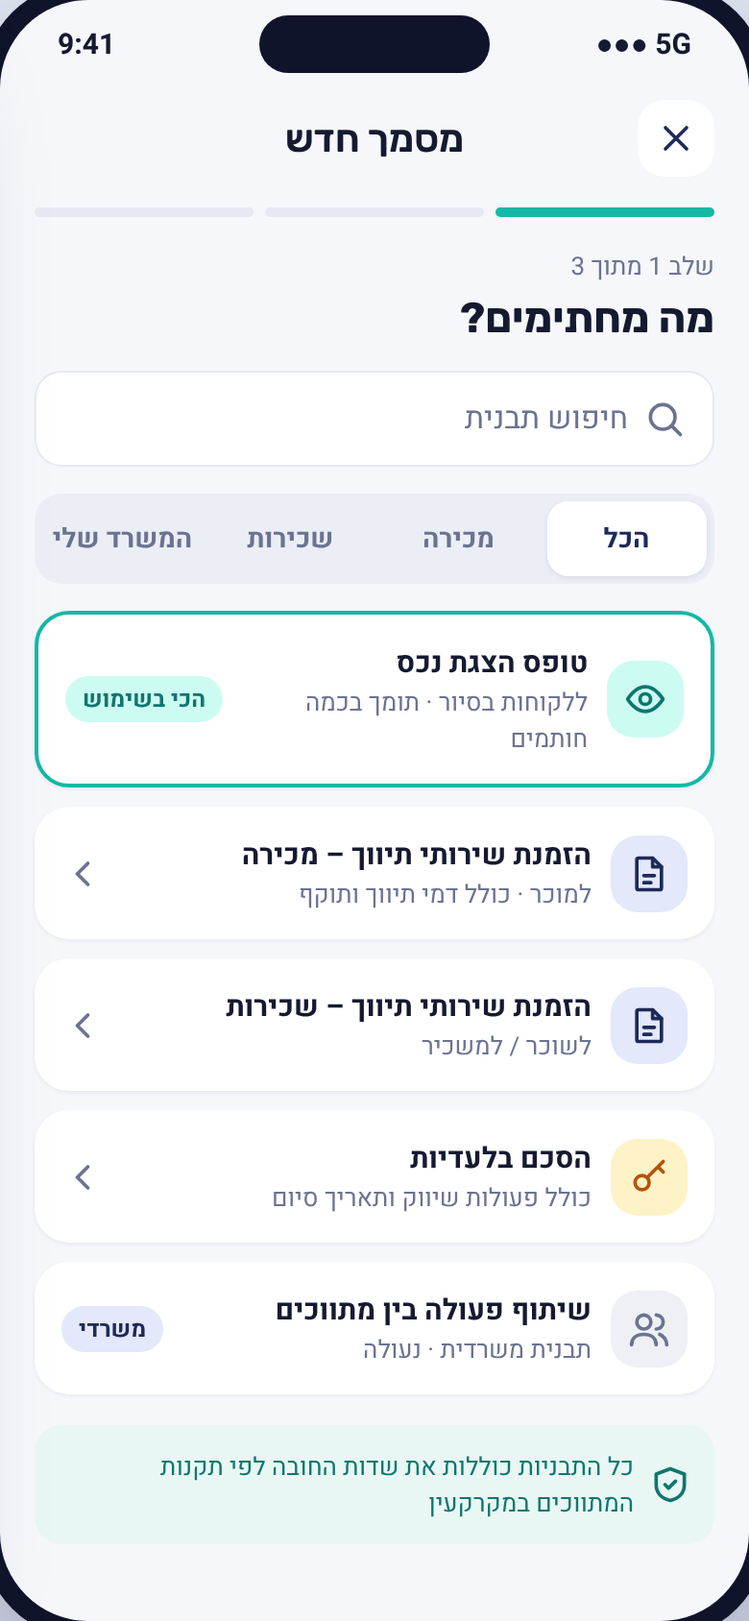
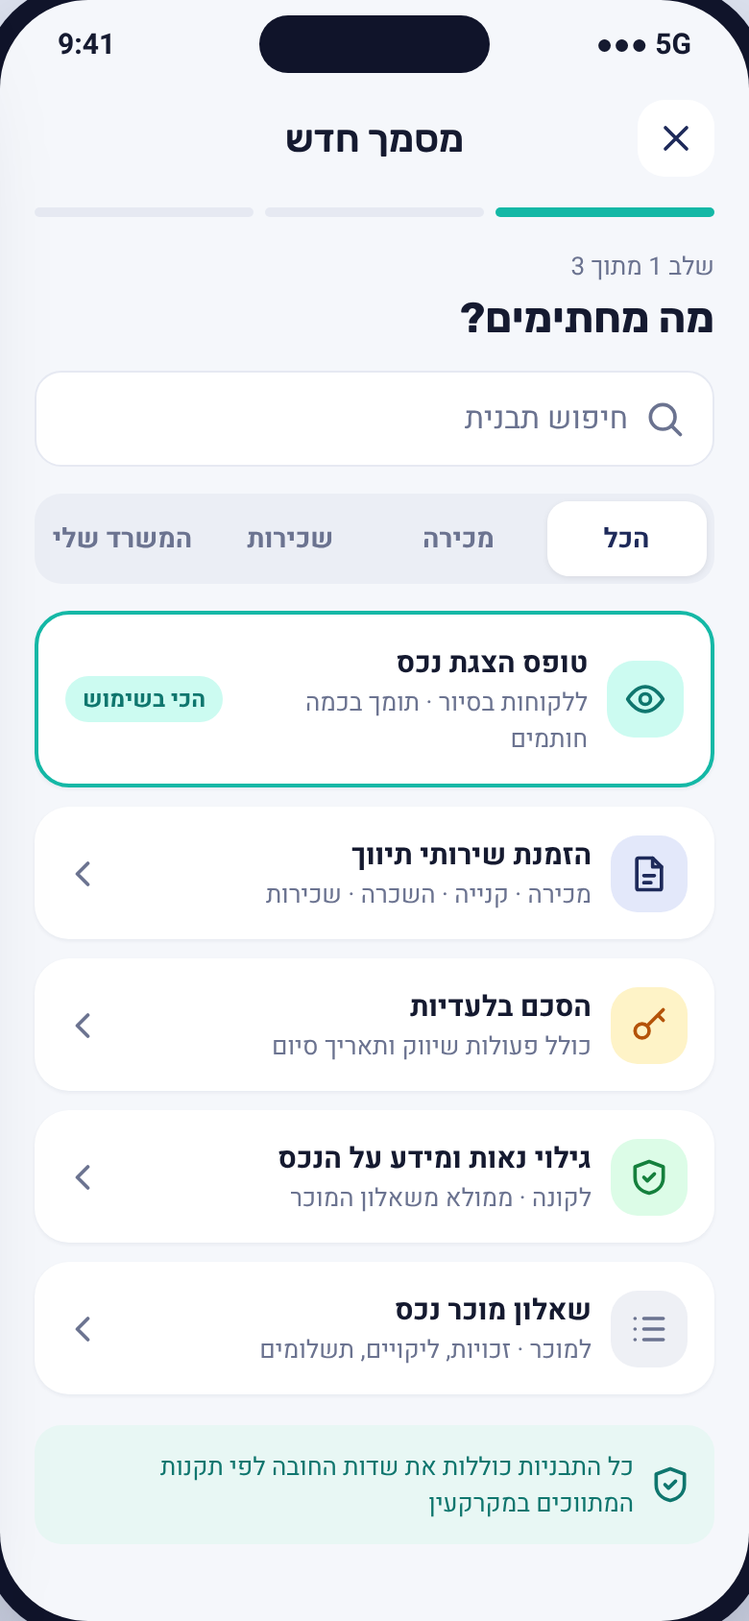
Add document templates and signed-copy / PDF save flow
Draft templates (brokerage order, exclusivity, disclosure, seller
questionnaire) with field placeholders and legal sources; spec section
for sending signed copies and saving PDFs; new share-sheet mockup.

Claude-Session: https://claude.ai/code/session_01U1SeR6NZ2Ur7a4idD67urs

diff --git a/docs/broker-app/mockups/mockups.html b/docs/broker-app/mockups/mockups.html
@@ -81,10 +81,10 @@ svg.i{width:22px;height:22px;fill:none;stroke:currentColor;stroke-width:2;stroke
  <div class="seg" style="margin-bottom:14px"><div class="on">הכל</div><div>מכירה</div><div>שכירות</div><div>המשרד שלי</div></div>
  <div class="card row" style="border:2px solid var(--teal);margin-bottom:10px"><div class="av c-teal"><svg class="i" data-i="eye"></svg></div><div style="flex:1"><div class="t">טופס הצגת נכס</div><div class="s">ללקוחות בסיור · תומך בכמה חותמים</div></div><span class="chip c-teal">הכי בשימוש</span></div>
  <div class="list">
-  <div class="card row"><div class="av c-navy"><svg class="i" data-i="file"></svg></div><div style="flex:1"><div class="t">הזמנת שירותי תיווך – מכירה</div><div class="s">למוכר · כולל דמי תיווך ותוקף</div></div><svg class="i" data-i="chev" style="color:var(--mute)"></svg></div>
-  <div class="card row"><div class="av c-navy"><svg class="i" data-i="file"></svg></div><div style="flex:1"><div class="t">הזמנת שירותי תיווך – שכירות</div><div class="s">לשוכר / למשכיר</div></div><svg class="i" data-i="chev" style="color:var(--mute)"></svg></div>
+  <div class="card row"><div class="av c-navy"><svg class="i" data-i="file"></svg></div><div style="flex:1"><div class="t">הזמנת שירותי תיווך</div><div class="s">מכירה · קנייה · השכרה · שכירות</div></div><svg class="i" data-i="chev" style="color:var(--mute)"></svg></div>
   <div class="card row"><div class="av c-amber"><svg class="i" data-i="key"></svg></div><div style="flex:1"><div class="t">הסכם בלעדיות</div><div class="s">כולל פעולות שיווק ותאריך סיום</div></div><svg class="i" data-i="chev" style="color:var(--mute)"></svg></div>
-  <div class="card row"><div class="av c-gray"><svg class="i" data-i="users"></svg></div><div style="flex:1"><div class="t">שיתוף פעולה בין מתווכים</div><div class="s">תבנית משרדית · נעולה</div></div><span class="chip c-navy">משרדי</span></div>
+  <div class="card row"><div class="av c-green"><svg class="i" data-i="shield"></svg></div><div style="flex:1"><div class="t">גילוי נאות ומידע על הנכס</div><div class="s">לקונה · ממולא משאלון המוכר</div></div><svg class="i" data-i="chev" style="color:var(--mute)"></svg></div>
+  <div class="card row"><div class="av c-gray"><svg class="i" data-i="list"></svg></div><div style="flex:1"><div class="t">שאלון מוכר נכס</div><div class="s">למוכר · זכויות, ליקויים, תשלומים</div></div><svg class="i" data-i="chev" style="color:var(--mute)"></svg></div>
  </div>
  <div class="row" style="margin-top:16px;background:#E8F7F4;border-radius:14px;padding:12px;color:#0F766E;font-size:13px;gap:8px"><svg class="i" data-i="shield"></svg><span>כל התבניות כוללות את שדות החובה לפי תקנות המתווכים במקרקעין</span></div>
 </div>
@@ -156,8 +156,8 @@ svg.i{width:22px;height:22px;fill:none;stroke:currentColor;stroke-width:2;stroke
   <div class="row between" style="padding:4px 0"><span class="s row" style="gap:6px"><svg class="i sm" data-i="pin"></svg>מיקום</span><span>ז׳בוטינסקי 112, ר״ג</span></div>
   <div class="row between" style="padding:4px 0"><span class="s row" style="gap:6px"><svg class="i sm" data-i="lock"></svg>Hash</span><span style="direction:ltr;font-family:monospace;font-size:12px">a3f9…7c21</span></div>
  </div>
- <div class="row" style="gap:8px;margin-top:16px"><div class="btn bo" style="flex:1"><svg class="i" data-i="dl"></svg>PDF</div><div class="btn bn" style="flex:2"><svg class="i" data-i="uplus"></svg>פתיחת 3 לידים</div></div>
- <div class="s" style="text-align:center;margin-top:10px">עותק חתום נשלח אוטומטית לכל החותמים</div>
+ <div class="row" style="gap:8px;margin-top:16px"><div class="btn bo" style="flex:1;font-size:15px"><svg class="i" data-i="dl"></svg>שמירת PDF</div><div class="btn bp" style="flex:1;font-size:15px"><svg class="i" data-i="send"></svg>שליחת העתק</div></div>
+ <div class="row" style="justify-content:center;gap:6px;margin-top:10px;font-size:13px;color:var(--green)"><svg class="i sm" data-i="check"></svg>העתק חתום נשלח אוטומטית ל-3 החותמים</div>
 </div>
 </div><div class="cap">5 · נחתם + תיעוד<small>מעקב לכל חותם, Audit Trail, לידים אוטומטיים</small></div></div>
 
@@ -265,8 +265,43 @@ svg.i{width:22px;height:22px;fill:none;stroke:currentColor;stroke-width:2;stroke
 <div class="tab"><div><svg class="i" data-i="home"></svg>בית</div><div><svg class="i" data-i="users"></svg>לקוחות</div><div class="fab"><svg class="i" data-i="plus"></svg></div><div><svg class="i" data-i="bld"></svg>נכסים</div><div class="on"><svg class="i" data-i="menu"></svg>עוד</div></div>
 </div><div class="cap">9 · דשבורד מנהל משרד<small>ביצועי צוות, חתימות ועמלות</small></div></div>
 
+<!-- 10 SHARE SHEET -->
+<div class="wrap"><div class="phone"><div class="sb"><span>9:41</span><span class="n"></span><span>●●● 5G</span></div>
+<div class="body" style="filter:blur(1.5px);opacity:.55">
+ <div class="hdr"><div class="ib"><svg class="i" data-i="back"></svg></div><h2>סטטוס מסמך</h2><div class="ib"><svg class="i" data-i="dots"></svg></div></div>
+ <div style="text-align:center;margin:6px 0 18px"><div style="width:84px;height:84px;border-radius:50%;background:#DCFCE7;margin:0 auto 12px"></div><h2 style="font-size:24px">נחתם על ידי כולם</h2></div>
+ <div class="card" style="height:160px"></div>
+</div>
+<div style="position:absolute;inset:0;background:rgba(16,20,42,.35)"></div>
+<div style="position:absolute;left:0;right:0;bottom:0;background:#fff;border-radius:28px 28px 0 0;padding:10px 18px 30px;box-shadow:0 -10px 30px rgba(0,0,0,.15)">
+ <div style="width:40px;height:5px;border-radius:5px;background:#D5DAE6;margin:0 auto 14px"></div>
+ <div class="row" style="gap:12px;margin-bottom:14px"><div style="width:48px;height:60px;border-radius:8px;background:#FEE2E2;color:#B91C1C;display:flex;align-items:center;justify-content:center;font-family:Rubik;font-weight:700;font-size:13px;flex:none">PDF</div><div style="flex:1;min-width:0"><div class="t">טופס הצגת נכס – ז׳בוטינסקי 112</div><div class="s">3 עמודים · 412KB · כולל תעודת חתימה</div></div></div>
+ <div class="lbl">שליחת העתק חתום</div>
+ <div class="card" style="padding:4px 14px;box-shadow:none;border:1.5px solid var(--line)">
+  <div class="row" style="padding:9px 0"><div style="width:22px;height:22px;border-radius:7px;background:var(--teal);color:#fff;display:flex;align-items:center;justify-content:center"><svg class="i sm" data-i="check" style="stroke-width:3"></svg></div><div style="flex:1"><div class="t">כל החותמים (3)</div><div class="s">שירה, יוסי, רונית</div></div><span class="chip c-green">נשלח 11:21</span></div>
+  <div class="divider" style="margin:0"></div>
+  <div class="row" style="padding:9px 0"><div style="width:22px;height:22px;border-radius:7px;background:var(--teal);color:#fff;display:flex;align-items:center;justify-content:center"><svg class="i sm" data-i="check" style="stroke-width:3"></svg></div><div style="flex:1"><div class="t">משה פרץ · בעל הנכס</div><div class="s">מהכרטיס של הנכס</div></div></div>
+  <div class="divider" style="margin:0"></div>
+  <div class="row" style="padding:9px 0;color:var(--teal-d)"><svg class="i" data-i="uplus"></svg><div class="t">נמען אחר (עו״ד, בן/בת זוג…)</div></div>
+ </div>
+ <div class="row" style="gap:8px;margin:12px 0">
+  <div style="flex:1;text-align:center"><div class="av" style="margin:0 auto 4px;width:52px;height:52px;border-radius:16px;background:#25D366;color:#fff"><svg class="i" data-i="msg"></svg></div><div style="font-size:12px;font-weight:600">WhatsApp</div></div>
+  <div style="flex:1;text-align:center"><div class="av c-navy" style="margin:0 auto 4px;width:52px;height:52px;border-radius:16px"><svg class="i" data-i="mail"></svg></div><div style="font-size:12px;font-weight:600">מייל</div></div>
+  <div style="flex:1;text-align:center"><div class="av c-amber" style="margin:0 auto 4px;width:52px;height:52px;border-radius:16px"><svg class="i" data-i="sms"></svg></div><div style="font-size:12px;font-weight:600">SMS</div></div>
+  <div style="flex:1;text-align:center"><div class="av c-gray" style="margin:0 auto 4px;width:52px;height:52px;border-radius:16px"><svg class="i" data-i="link"></svg></div><div style="font-size:12px;font-weight:600">העתקת קישור</div></div>
+ </div>
+ <div class="lbl">שמירת PDF</div>
+ <div class="row" style="gap:8px">
+  <div class="btn bo" style="flex:1;height:46px;font-size:14px"><svg class="i sm" data-i="dl"></svg>לטלפון</div>
+  <div class="btn bo" style="flex:1;height:46px;font-size:14px"><svg class="i sm" data-i="cloud"></svg>Google Drive</div>
+  <div class="btn bo" style="flex:1;height:46px;font-size:14px"><svg class="i sm" data-i="share"></svg>שיתוף…</div>
+ </div>
+ <div class="row" style="margin-top:12px;gap:8px;font-size:12.5px;color:var(--mute)"><svg class="i sm" data-i="lock"></svg>קישור מאובטח, בתוקף 30 יום · נשמר בארכיון 7 שנים</div>
+</div>
+</div><div class="cap">10 · שליחת העתק ושמירת PDF<small>לכל החותמים, לבעל הנכס או לכל נמען, ושמירה לטלפון/ענן</small></div></div>
+
 <script>
-const P={home:'<path d="M3 10l9-7 9 7v10a1 1 0 0 1-1 1h-5v-6H9v6H4a1 1 0 0 1-1-1z"/>',users:'<circle cx="9" cy="8" r="4"/><path d="M2 21c0-4 3-6 7-6s7 2 7 6M16 4a4 4 0 0 1 0 8M22 21c0-3-2-5-4-6"/>',plus:'<path d="M12 5v14M5 12h14"/>',bld:'<rect x="4" y="3" width="16" height="18" rx="1"/><path d="M9 7h1M14 7h1M9 11h1M14 11h1M9 15h1M14 15h1M10 21v-3h4v3"/>',menu:'<path d="M4 6h16M4 12h16M4 18h16"/>',file:'<path d="M14 3H6a1 1 0 0 0-1 1v16a1 1 0 0 0 1 1h12a1 1 0 0 0 1-1V8z"/><path d="M14 3v5h5M9 13h6M9 17h4"/>',check:'<path d="M5 12l5 5 9-10"/>',clock:'<circle cx="12" cy="12" r="9"/><path d="M12 7v5l3 2"/>',eye:'<path d="M2 12s4-7 10-7 10 7 10 7-4 7-10 7S2 12 2 12z"/><circle cx="12" cy="12" r="3"/>',bell:'<path d="M6 8a6 6 0 0 1 12 0c0 7 3 9 3 9H3s3-2 3-9"/><path d="M10 21h4"/>',search:'<circle cx="11" cy="11" r="7"/><path d="M21 21l-5-5"/>',cal:'<rect x="3" y="5" width="18" height="16" rx="2"/><path d="M3 10h18M8 3v4M16 3v4"/>',phone:'<path d="M5 4h4l2 5-2.5 1.5a11 11 0 0 0 5 5L15 13l5 2v4a2 2 0 0 1-2 2A16 16 0 0 1 3 6a2 2 0 0 1 2-2"/>',msg:'<path d="M21 12a9 9 0 0 1-13.5 7.8L3 21l1.2-4.5A9 9 0 1 1 21 12z"/>',chev:'<path d="M15 6l-6 6 6 6"/>',back:'<path d="M9 6l6 6-6 6"/>',pen:'<path d="M12 20h9"/><path d="M16.5 3.5a2.1 2.1 0 0 1 3 3L7 19l-4 1 1-4z"/>',shield:'<path d="M12 3l8 3v6c0 5-3.5 8-8 9-4.5-1-8-4-8-9V6z"/><path d="M9 12l2 2 4-4"/>',pin:'<path d="M12 21s7-6 7-12a7 7 0 0 0-14 0c0 6 7 12 7 12z"/><circle cx="12" cy="9" r="2.5"/>',send:'<path d="M22 2L11 13M22 2l-7 20-4-9-9-4z"/>',uplus:'<circle cx="9" cy="8" r="4"/><path d="M2 21c0-4 3-6 7-6s7 2 7 6M19 8v6M16 11h6"/>',key:'<circle cx="8" cy="15" r="4"/><path d="M11 12l9-9M17 6l3 3"/>',phone2:'<rect x="7" y="2" width="10" height="20" rx="2"/><path d="M11 18h2"/>',idc:'<rect x="3" y="5" width="18" height="14" rx="2"/><circle cx="9" cy="11" r="2"/><path d="M6 16c.5-1.5 1.7-2 3-2s2.5.5 3 2M14 10h4M14 13h3"/>',lock:'<rect x="5" y="11" width="14" height="10" rx="2"/><path d="M8 11V7a4 4 0 0 1 8 0v4"/>',dl:'<path d="M12 3v12M7 10l5 5 5-5M5 21h14"/>',x:'<path d="M6 6l12 12M18 6L6 18"/>',dots:'<circle cx="12" cy="5" r="1"/><circle cx="12" cy="12" r="1"/><circle cx="12" cy="19" r="1"/>',filter:'<path d="M3 5h18l-7 8v6l-4 2v-8z"/>'};
+const P={home:'<path d="M3 10l9-7 9 7v10a1 1 0 0 1-1 1h-5v-6H9v6H4a1 1 0 0 1-1-1z"/>',users:'<circle cx="9" cy="8" r="4"/><path d="M2 21c0-4 3-6 7-6s7 2 7 6M16 4a4 4 0 0 1 0 8M22 21c0-3-2-5-4-6"/>',plus:'<path d="M12 5v14M5 12h14"/>',bld:'<rect x="4" y="3" width="16" height="18" rx="1"/><path d="M9 7h1M14 7h1M9 11h1M14 11h1M9 15h1M14 15h1M10 21v-3h4v3"/>',menu:'<path d="M4 6h16M4 12h16M4 18h16"/>',file:'<path d="M14 3H6a1 1 0 0 0-1 1v16a1 1 0 0 0 1 1h12a1 1 0 0 0 1-1V8z"/><path d="M14 3v5h5M9 13h6M9 17h4"/>',check:'<path d="M5 12l5 5 9-10"/>',clock:'<circle cx="12" cy="12" r="9"/><path d="M12 7v5l3 2"/>',eye:'<path d="M2 12s4-7 10-7 10 7 10 7-4 7-10 7S2 12 2 12z"/><circle cx="12" cy="12" r="3"/>',bell:'<path d="M6 8a6 6 0 0 1 12 0c0 7 3 9 3 9H3s3-2 3-9"/><path d="M10 21h4"/>',search:'<circle cx="11" cy="11" r="7"/><path d="M21 21l-5-5"/>',cal:'<rect x="3" y="5" width="18" height="16" rx="2"/><path d="M3 10h18M8 3v4M16 3v4"/>',phone:'<path d="M5 4h4l2 5-2.5 1.5a11 11 0 0 0 5 5L15 13l5 2v4a2 2 0 0 1-2 2A16 16 0 0 1 3 6a2 2 0 0 1 2-2"/>',msg:'<path d="M21 12a9 9 0 0 1-13.5 7.8L3 21l1.2-4.5A9 9 0 1 1 21 12z"/>',chev:'<path d="M15 6l-6 6 6 6"/>',back:'<path d="M9 6l6 6-6 6"/>',pen:'<path d="M12 20h9"/><path d="M16.5 3.5a2.1 2.1 0 0 1 3 3L7 19l-4 1 1-4z"/>',shield:'<path d="M12 3l8 3v6c0 5-3.5 8-8 9-4.5-1-8-4-8-9V6z"/><path d="M9 12l2 2 4-4"/>',pin:'<path d="M12 21s7-6 7-12a7 7 0 0 0-14 0c0 6 7 12 7 12z"/><circle cx="12" cy="9" r="2.5"/>',send:'<path d="M22 2L11 13M22 2l-7 20-4-9-9-4z"/>',uplus:'<circle cx="9" cy="8" r="4"/><path d="M2 21c0-4 3-6 7-6s7 2 7 6M19 8v6M16 11h6"/>',key:'<circle cx="8" cy="15" r="4"/><path d="M11 12l9-9M17 6l3 3"/>',phone2:'<rect x="7" y="2" width="10" height="20" rx="2"/><path d="M11 18h2"/>',idc:'<rect x="3" y="5" width="18" height="14" rx="2"/><circle cx="9" cy="11" r="2"/><path d="M6 16c.5-1.5 1.7-2 3-2s2.5.5 3 2M14 10h4M14 13h3"/>',lock:'<rect x="5" y="11" width="14" height="10" rx="2"/><path d="M8 11V7a4 4 0 0 1 8 0v4"/>',dl:'<path d="M12 3v12M7 10l5 5 5-5M5 21h14"/>',x:'<path d="M6 6l12 12M18 6L6 18"/>',dots:'<circle cx="12" cy="5" r="1"/><circle cx="12" cy="12" r="1"/><circle cx="12" cy="19" r="1"/>',list:'<path d="M9 6h11M9 12h11M9 18h11M4 6h.01M4 12h.01M4 18h.01"/>',mail:'<rect x="3" y="5" width="18" height="14" rx="2"/><path d="M3 7l9 6 9-6"/>',sms:'<path d="M4 4h16a1 1 0 0 1 1 1v11a1 1 0 0 1-1 1H9l-5 4V5a1 1 0 0 1 1-1z"/><path d="M8 10h8M8 13h5"/>',link:'<path d="M10 14a4 4 0 0 0 6 0l3-3a4 4 0 0 0-6-6l-1 1"/><path d="M14 10a4 4 0 0 0-6 0l-3 3a4 4 0 0 0 6 6l1-1"/>',cloud:'<path d="M7 18a5 5 0 0 1-.5-10A6 6 0 0 1 18 9a4.5 4.5 0 0 1-.5 9z"/>',share:'<circle cx="18" cy="5" r="3"/><circle cx="6" cy="12" r="3"/><circle cx="18" cy="19" r="3"/><path d="M8.6 10.5l6.8-4M8.6 13.5l6.8 4"/>',filter:'<path d="M3 5h18l-7 8v6l-4 2v-8z"/>'};
 document.querySelectorAll('svg[data-i]').forEach(s=>{if(!s.getAttribute('viewBox'))s.setAttribute('viewBox','0 0 24 24');s.innerHTML=P[s.dataset.i]||''});
 </script>
 </body></html>

diff --git a/docs/broker-app/templates/README.md b/docs/broker-app/templates/README.md
@@ -1,0 +1,35 @@
+# תבניות מסמכים לאפליקציה
+
+> ⚠ **טיוטות לעבודה – לא ייעוץ משפטי.** התבניות נכתבו מחדש (לא הועתקו מטופס קיים) על בסיס הדרישות שבחוק המתווכים במקרקעין, התשנ״ו-1996 ובתקנות שמכוחו, כפי שהן מתוארות במקורות שבסוף הקובץ. **חובה שעו״ד יעבור על כל תבנית לפני שימוש עם לקוחות**, בייחוד בגלל תקנות האתיקה החדשות (התשפ״ד-2024).
+
+| # | תבנית | מי חותם | מתי | קובץ |
+|---|---|---|---|---|
+| 1 | הזמנת שירותי תיווך (מכירה / קנייה / השכרה / שכירות) | הלקוח | לפני שמוסרים פרטי נכס / מציגים | [01-brokerage-order.md](01-brokerage-order.md) |
+| 2 | הסכם בלעדיות | בעל הנכס | עם קבלת הנכס לשיווק – **מסמך נפרד** | [02-exclusivity.md](02-exclusivity.md) |
+| 3 | גילוי נאות ומידע על הנכס | הקונה / השוכר (אישור קבלה) | לפני הסיור / לפני מו״מ | [03-disclosure.md](03-disclosure.md) |
+| 4 | שאלון מוכר / משכיר נכס | בעל הנכס | עם קבלת הנכס – הבסיס לטופס 3 | [04-seller-questionnaire.md](04-seller-questionnaire.md) |
+
+## איך זה עובד באפליקציה
+- כל `{{שדה}}` ממולא אוטומטית מכרטיס המתווך / הלקוח / הנכס. שדות שמסומנים `*` הם חובה – אי אפשר לשלוח בלי למלא אותם.
+- `[ ]` = תיבת סימון שהחותם מסמן. `[[חתימה]]` = מקום חתימה.
+- **שאלון המוכר (4) מזין את טופס הגילוי (3):** התשובות של המוכר עוברות אוטומטית לטופס שהקונה מקבל, כך שהמתווך מתעד שהעביר את המידע.
+- אחרי חתימה: נוצר PDF עם עמוד "תעודת חתימה" (שעה, טלפון מאומת, מיקום, קוד אימות של הקובץ). העתק נשלח אוטומטית לכל החותמים ונשמר בכרטיסים.
+
+## מה החוק דורש (לפי המקורות – לאמת מול הנוסח הרשמי)
+1. **הזמנה בכתב (סעיף 9 לחוק + תקנות פרטי הזמנה בכתב, 1997):** מתווך זכאי לדמי תיווך רק אם יש לו רישיון, הלקוח חתם על הזמנה בכתב עם הפרטים הנדרשים, והמתווך היה "הגורם היעיל". פרטי החובה כוללים זיהוי המתווך (כולל מס׳ רישיון) והלקוח, סוג העסקה, תיאור הנכס, מחיר משוער, דמי התיווך והאם הם כוללים מע״מ.
+2. **בלעדיות:** חייבת להיות מאושרת בחתימת הלקוח **על מסמך נפרד**. בדירה – עד 6 חודשים. המתווך חייב לבצע לפחות 2 מתוך 6 פעולות שיווק שבתקנות (פעולות שיווק, 2004). אם לא ביצע אותן עד תום שליש מהתקופה – הבלעדיות מסתיימת.
+3. **תקנות אתיקה וחובות מקצועיות (2024):** להסביר ללקוח בשפה פשוטה את הטופס לפני חתימה; למסור לקונה/שוכר מידע מהתוספת לתקנות (בין היתר רטיבות, חריגות בנייה, ליקויים מהותיים בתשתיות) ולתעד אם בעל הנכס סירב למסור מידע; לגלות בכתב תשלום/טובת הנאה מגורם שאינו צד לעסקה; ייצוג שני הצדדים רק בהסכמה בכתב של שניהם; לא למנוע קשר ישיר בין הצדדים; חובות מסירה ושמירה של מסמכים.
+4. **גילוי עניין אישי (סעיף 10 לחוק):** מתווך שיש לו עניין אישי בנכס או בעסקה חייב לגלות זאת ללקוח.
+
+## מקורות
+- [תקנות פרטי הזמנה בכתב – טולדנו](https://www.toledano.co.il/%D7%AA%D7%A7%D7%A0%D7%95%D7%AA-%D7%94%D7%9E%D7%AA%D7%95%D7%95%D7%9B%D7%99%D7%9D-%D7%91%D7%9E%D7%A7%D7%A8%D7%A7%D7%A2%D7%99%D7%9F-%D7%A4%D7%A8%D7%98%D7%99-%D7%94%D7%96%D7%9E%D7%A0%D7%94-%D7%91%D7%9B/%D7%AA%D7%99%D7%95%D7%95%D7%9A-%D7%97%D7%95%D7%A7-%D7%94%D7%9E%D7%AA%D7%95%D7%95%D7%9B%D7%99%D7%9D/)
+- [חוק המתווכים במקרקעין – נבו](https://www.nevo.co.il/law_html/law00/72991.htm)
+- [תקנות אתיקה וחובות מקצועיות, 2024 – נבו](https://www.nevo.co.il/law_html/law00/229640.htm)
+- [תקנות אתיקה – ויקיטקסט](https://he.wikisource.org/wiki/%D7%AA%D7%A7%D7%A0%D7%95%D7%AA_%D7%94%D7%9E%D7%AA%D7%95%D7%95%D7%9B%D7%99%D7%9D_%D7%91%D7%9E%D7%A7%D7%A8%D7%A7%D7%A2%D7%99%D7%9F_(%D7%90%D7%AA%D7%99%D7%A7%D7%94_%D7%95%D7%97%D7%95%D7%91%D7%95%D7%AA_%D7%9E%D7%A7%D7%A6%D7%95%D7%A2%D7%99%D7%95%D7%AA))
+- [תקנות פעולות שיווק – ויקיטקסט](https://he.wikisource.org/wiki/%D7%AA%D7%A7%D7%A0%D7%95%D7%AA_%D7%94%D7%9E%D7%AA%D7%95%D7%95%D7%9B%D7%99%D7%9D_%D7%91%D7%9E%D7%A7%D7%A8%D7%A7%D7%A2%D7%99%D7%9F_(%D7%A4%D7%A2%D7%95%D7%9C%D7%95%D7%AA_%D7%A9%D7%99%D7%95%D7%95%D7%A7))
+- [בלעדיות: לפחות שתי פעולות שיווק – גלובס](https://www.globes.co.il/news/article.aspx?did=866813)
+- [תיקון 4 לחוק (2004) – הכנסת](https://fs.knesset.gov.il/16/law/16_lsr_299856.pdf)
+- [הכנסת אישרה את תקנות האתיקה – וואלה](https://nadlan.walla.co.il/item/3681234)
+- [התקנות החדשות למתווכים – אטיאס ושות׳](https://alaw.co.il/%D7%94%D7%AA%D7%A7%D7%A0%D7%95%D7%AA-%D7%94%D7%97%D7%93%D7%A9%D7%95%D7%AA-%D7%9C%D7%9E%D7%AA%D7%95%D7%95%D7%9B%D7%99%D7%9D-%D7%91%D7%9E%D7%A7%D7%A8%D7%A7%D7%A2%D7%99%D7%9F/)
+- [זכותון ללקוחות של מתווכים – כל זכות](https://www.kolzchut.org.il/he/%D7%96%D7%9B%D7%95%D7%AA%D7%95%D7%9F_%D7%9C%D7%9C%D7%A7%D7%95%D7%97%D7%95%D7%AA_%D7%A9%D7%9C_%D7%9E%D7%AA%D7%95%D7%95%D7%9B%D7%99_%D7%93%D7%99%D7%A8%D7%95%D7%AA_%D7%95%D7%9E%D7%A7%D7%A8%D7%A7%D7%A2%D7%99%D7%9F)
+- [חומר לימוד דיני מתווכים – gov.il](https://www.gov.il/BlobFolder/generalpage/studymaterial/he/part1.pdf)

diff --git a/docs/broker-app/templates/04-seller-questionnaire.md b/docs/broker-app/templates/04-seller-questionnaire.md
@@ -1,0 +1,70 @@
+# שאלון מוכר / משכיר נכס
+**ממולא על ידי בעל הנכס עם מסירת הנכס לשיווק. התשובות מזינות את טופס הגילוי הנאות לקונים/שוכרים.**
+
+> טיוטה לעבודה – לבדיקת עו״ד. באפליקציה: שאלון שלב-אחר-שלב, שאלה אחת במסך, עם אפשרות לצלם מסמכים.
+
+**תאריך:** {{תאריך}}   **מתווך:** {{מתווך.שם}}, רישיון {{מתווך.רישיון}}
+
+## 1. פרטי בעלי הנכס
+| | |
+|---|---|
+| שם/ות הבעלים כפי שרשומים | {{בעלים}} |
+| ת״ז | {{תזים}} |
+| טלפון / דוא״ל | {{טלפון}} / {{מייל}} |
+| האם כל הבעלים מסכימים למכירה/השכרה? | [ ] כן [ ] לא – פרט: |
+| מכירה באמצעות מיופה כוח / ירושה / כונס / עזבון? | [ ] לא [ ] כן – פרט (צו ירושה, ייפוי כוח): |
+
+## 2. הנכס
+- כתובת, דירה, קומה: {{כתובת}}
+- גוש / חלקה / תת-חלקה: {{גוש_חלקה}}
+- סוג: [ ] דירה [ ] דירת גן [ ] פנטהאוז [ ] בית פרטי [ ] מסחרי [ ] אחר
+- חדרים: ___  שטח (מ״ר): ___  מקור השטח: [ ] טאבו [ ] ארנונה [ ] תכנית [ ] לא ידוע
+- מרפסת ___ מ״ר · חניה: [ ] רשומה [ ] לא רשומה ___ · מחסן: [ ] רשום [ ] לא רשום · מעלית [ ] · ממ״ד [ ]
+- שנת בנייה: ___  קומות בבניין: ___
+
+## 3. רישום וזכויות
+- הנכס רשום ב: [ ] טאבו (לשכת רישום מקרקעין) [ ] רשות מקרקעי ישראל [ ] חברה משכנת: ___ [ ] לא רשום
+- בית משותף רשום? [ ] כן [ ] לא [ ] לא יודע/ת
+- משכנתא: [ ] אין [ ] יש – בנק ___ יתרה משוערת ₪___
+- עיקולים / שעבודים / הערות אזהרה לטובת אחרים: [ ] אין [ ] יש – פרט:
+- הליכים משפטיים / תביעות הקשורים לנכס או לבניין: [ ] אין [ ] יש – פרט:
+- מצורף: [ ] נסח טאבו [ ] אישור זכויות [ ] היתר בנייה / תכנית [ ] חוזה רכישה קודם
+
+## 4. מצב פיזי (גילוי ליקויים)
+לכל שאלה: [ ] לא ידוע לי על כך [ ] כן – פרט, כולל אם תוקן ומתי.
+1. **רטיבות / נזילות / עובש** – בדירה, בתקרה, בקירות חיצוניים:
+2. **חריגות בנייה** – תוספות, סגירת מרפסות, איחוד/פיצול חדרים, שינויים ללא היתר:
+3. **צנרת מים וביוב** – סתימות חוזרות, החלפות, בעיות לחץ:
+4. **חשמל** – לוח, הארקה, תקלות:
+5. **גז** – צנרת, ספק, תקינות:
+6. **סדקים / בעיות מבנה / שקיעות:**
+7. **איטום גג / מרפסות:**
+8. **מזיקים** (טרמיטים, מכרסמים) – טיפולים בעבר:
+9. **רעש / מטרד קבוע** ידוע (עסק, תשתית, שכנים):
+10. **ליקויים בבניין / בשטחים משותפים** (מעלית, חדר מדרגות, ביוב משותף):
+11. שיפוצים שבוצעו (שנה, מה, האם עם היתר): 
+
+## 5. תכנון וסביבה
+- תמ״א 38 / פינוי-בינוי / התחדשות עירונית – קיימת הסכמה, חתימה או הליך? [ ] לא [ ] כן – פרט:
+- תכניות בנייה ידועות בסביבה / הפקעות: 
+- צווי הריסה / קנסות / דרישות עירייה: [ ] לא [ ] כן – פרט:
+
+## 6. תשלומים וחובות
+- ארנונה ₪___ לחודשיים · ועד בית ₪___ לחודש · תשלומים מיוחדים צפויים לבניין: ___
+- חובות פתוחים (ארנונה, מים, ועד, היטלים): [ ] אין [ ] יש – פרט:
+
+## 7. אכלוס ומסירה
+- מי גר בנכס היום? [ ] הבעלים [ ] שוכר – חוזה עד ___, דמי שכירות ₪___ [ ] ריק
+- מועד פינוי / מסירה אפשרי: ___
+- מה נשאר בנכס (מזגנים, מטבח, ארונות, דוד שמש, ריהוט): ___
+- מחיר מבוקש: ₪___ · גמישות / תנאים מיוחדים: ___
+
+## 8. הצהרה והסכמה
+[ ] אני מצהיר/ה שהתשובות נכונות ומלאות למיטב ידיעתי, ושאעדכן את המתווך בכל שינוי.
+[ ] ידוע לי שהמתווך חייב למסור מידע זה לקונים/שוכרים פוטנציאליים, ואני מסכים/ה שיעביר אותו.
+[ ] ידוע לי שהסתרת מידע מהותי על הנכס עלולה להטיל עליי אחריות כלפי הקונה.
+[ ] **סירוב:** אני מסרב/ת למסור מידע בנושאים: ___ (המתווך יציין זאת בטופס הגילוי).
+
+| בעל/ת הנכס | בעלים נוסף/ת | המתווך |
+|---|---|---|
+| [[חתימה]] | [[חתימה]] | [[חתימה]] |

diff --git a/docs/broker-app/templates/03-disclosure.md b/docs/broker-app/templates/03-disclosure.md
@@ -1,0 +1,50 @@
+# טופס גילוי נאות ומידע על הנכס
+**נמסר לקונה / לשוכר – לפי חובות הגילוי של המתווך (סעיף 10 לחוק ותקנות המתווכים במקרקעין (אתיקה וחובות מקצועיות), התשפ״ד-2024)**
+
+> טיוטה לעבודה – לבדיקת עו״ד. יש להשוות את סעיף ג׳ לרשימה המלאה ב**תוספת לתקנות האתיקה** ולהשלים פריטים חסרים.
+
+**תאריך:** {{תאריך}}   **הנכס:** {{נכס.כתובת}}   **הלקוח:** {{לקוח.שם}}, ת״ז {{לקוח.תז}}
+
+## א. גילוי על המתווך
+| נושא | גילוי |
+|---|---|
+| רישיון | {{מתווך.שם}}, רישיון {{מתווך.רישיון}} – הוצג ללקוח לפי בקשתו |
+| עניין אישי בנכס/בעסקה | [ ] אין  [ ] יש: {{עניין_אישי}} |
+| את מי המתווך מייצג | [ ] את הקונה/שוכר בלבד  [ ] את המוכר/משכיר בלבד  [ ] את שני הצדדים – בהסכמת שניהם בכתב |
+| בלעדיות מבעל הנכס | [ ] לנכס יש בלעדיות אצל המתווך עד {{בלעדיות.עד}}  [ ] אין |
+| תשלום / טובת הנאה מגורם שאינו צד לעסקה (שמאי, יועץ משכנתאות, קבלן וכו׳) | [ ] אין  [ ] יש: {{תשלום_צד_ג}} |
+| הליכי כינוס / הוצאה לפועל על הנכס, ככל שידוע | [ ] לא ידוע על הליך  [ ] קיים: {{הליכים}} |
+
+## ב. מקור המידע
+המידע בסעיף ג׳ נמסר על ידי בעל הנכס ב**שאלון מוכר** מיום {{שאלון.תאריך}}, ו/או נבדק על ידי המתווך במקורות: [ ] נסח טאבו מיום {{נסח.תאריך}} [ ] אישור זכויות ממנהל/חברה משכנת [ ] תיק בניין / היתר [ ] ביקור בנכס.
+המתווך אינו מהנדס, שמאי או עו״ד. **מומלץ לבצע בדיקה הנדסית ומשפטית עצמאית לפני חתימה על הסכם.**
+
+## ג. מידע על הנכס
+| נושא | מצב | פירוט |
+|---|---|---|
+| בעלות ורישום | {{זכויות.סוג}} | שמות הבעלים: {{זכויות.בעלים}} |
+| שטח | {{נכס.מ״ר}} מ״ר | מקור המדידה: {{שטח.מקור}} (טאבו / ארנונה / תכנית / מדידה) |
+| חלוקה פנימית ומצמידים | | חניה {{חניה}}, מחסן {{מחסן}}, מרפסת {{מרפסת}} |
+| משכנתא / שעבוד / עיקול | [ ] אין [ ] יש | {{שעבודים}} |
+| הערות אזהרה ורישומים בנסח | [ ] אין [ ] יש | {{הערות_אזהרה}} |
+| **רטיבות** | [ ] אין ידיעה [ ] יש / הייתה | {{רטיבות}} |
+| **חריגות בנייה** / תוספות ללא היתר | [ ] אין ידיעה [ ] יש | {{חריגות}} |
+| **ליקויים מהותיים בתשתיות** (מים, חשמל, ביוב, גז) | [ ] אין ידיעה [ ] יש | {{ליקויי_תשתית}} |
+| ליקויים מהותיים אחרים (סדקים, מבנה, איטום) | [ ] אין ידיעה [ ] יש | {{ליקויים}} |
+| תביעות / זכויות של אחרים בנכס | [ ] אין ידיעה [ ] יש | {{תביעות}} |
+| מחזיק בנכס היום | [ ] בעלים [ ] שוכר עד {{שכירות.עד}} [ ] ריק | |
+| נכס שאינו ראוי למגורים | [ ] לא [ ] כן | {{לא_ראוי}} |
+| תמ״א 38 / פינוי-בינוי / תכנית בתוקף או בהליך | [ ] אין ידיעה [ ] יש | {{תכנון}} |
+| תשלומי חובה (ארנונה, ועד בית) וחובות | | ארנונה ₪{{ארנונה}}/דו-חודשי · ועד ₪{{ועד}}/חודש · חובות: {{חובות}} |
+| מידע מהותי נוסף שידוע למתווך | | {{מידע_נוסף}} |
+
+**סירוב למסור מידע:** [ ] בעל הנכס סירב למסור מידע בנושאים: {{סירוב.נושאים}}. המתווך עשה מאמץ סביר לקבלו.
+
+## ד. אישור קבלת מידע
+[ ] קיבלתי את המידע שלעיל והמתווך הסביר לי אותו בשפה פשוטה.
+[ ] ידוע לי שהמידע נמסר כפי שהוא ידוע למתווך ולבעל הנכס, ושעליי לבצע בדיקות עצמאיות.
+[ ] קיבלתי עותק של טופס זה.
+
+| הקונה/השוכר | המתווך |
+|---|---|
+| [[חתימה]] | [[חתימה]] |

diff --git a/docs/broker-app/templates/01-brokerage-order.md b/docs/broker-app/templates/01-brokerage-order.md
@@ -1,0 +1,61 @@
+# הזמנת שירותי תיווך במקרקעין
+**לפי חוק המתווכים במקרקעין, התשנ״ו-1996 ותקנות המתווכים במקרקעין (פרטי הזמנה בכתב), התשנ״ז-1997**
+
+> טיוטה לעבודה – לבדיקת עו״ד לפני שימוש.
+
+**תאריך:** {{תאריך}}*   **מס׳ מסמך:** {{מספר_מסמך}}
+
+### 1. פרטי המתווך
+| | |
+|---|---|
+| שם המתווך* | {{מתווך.שם}} |
+| מס׳ רישיון תיווך* | {{מתווך.רישיון}} |
+| שם המשרד / ח.פ. | {{משרד.שם}} / {{משרד.חפ}} |
+| כתובת וטלפון | {{משרד.כתובת}} · {{מתווך.טלפון}} |
+
+### 2. פרטי הלקוח (המזמין)
+| | |
+|---|---|
+| שם מלא* | {{לקוח.שם}} |
+| ת״ז* | {{לקוח.תז}} |
+| כתובת* | {{לקוח.כתובת}} |
+| טלפון / דוא״ל | {{לקוח.טלפון}} / {{לקוח.מייל}} |
+
+### 3. סוג העסקה*
+[ ] מכירה  [ ] קנייה  [ ] השכרה  [ ] שכירות  [ ] אחר: {{עסקה.אחר}}
+
+### 4. הנכס/ים*
+| כתובת / גוש-חלקה-תת | תיאור (סוג, חדרים, מ״ר, קומה) | מחיר משוער* |
+|---|---|---|
+| {{נכס.כתובת}} {{נכס.גוש_חלקה}} | {{נכס.תיאור}} | ₪{{נכס.מחיר}} |
+| {{נכס2.כתובת}} | {{נכס2.תיאור}} | ₪{{נכס2.מחיר}} |
+
+*(בהזמנת קונה/שוכר אפשר להוסיף שורות לכל נכס שהוצג. נכס שמתווסף אחר כך – נחתם בטופס הצגת נכס נפרד.)*
+
+### 5. דמי תיווך*
+5.1 הלקוח ישלם למתווך דמי תיווך בשיעור **{{עמלה.אחוז}}%** ממחיר העסקה / סך **₪{{עמלה.סכום}}** (מחק את המיותר).
+5.2 הסכום **[ ] כולל מע״מ  [ ] בתוספת מע״מ כדין***.
+5.3 בשכירות: דמי התיווך יהיו בסך **{{עמלה.שכירות}}** (לדוגמה: שכר דירה של חודש אחד) {{מעמ_שכירות}}.
+5.4 דמי התיווך ישולמו במועד חתימת הסכם מחייב בין הצדדים לעסקה (לרבות זיכרון דברים מחייב).
+
+### 6. התחייבויות והצהרות
+6.1 המתווך יפעל בנאמנות ובמיומנות, ויעביר ללקוח כל מידע מהותי הידוע לו על הנכס ועל העסקה.
+6.2 **גילוי עניין אישי:** [ ] אין למתווך עניין אישי בנכס או בעסקה. [ ] יש למתווך עניין אישי, ופרטיו: {{עניין_אישי}}
+6.3 **תשלום מצד שלישי:** [ ] המתווך לא יקבל תשלום או טובת הנאה מגורם שאינו צד לעסקה. [ ] יקבל, ופרטיו: {{תשלום_צד_ג}}
+6.4 **ייצוג שני הצדדים:** [ ] המתווך מייצג רק את הלקוח. [ ] המתווך מייצג גם את הצד השני, והלקוח מסכים לכך (בכפוף להסכמה בכתב גם של הצד השני).
+6.5 **בלעדיות:** [ ] ההזמנה אינה בלעדית. [ ] ניתנה בלעדיות לפי **הסכם בלעדיות נפרד** מיום {{בלעדיות.תאריך}}.
+6.6 הלקוח רשאי לקיים קשר ישיר עם הצד השני לעסקה, והמתווך לא ימנע זאת.
+6.7 הלקוח מתחייב שלא להעביר מידע שקיבל מהמתווך לצד שלישי לצורך עקיפת המתווך. עשה כן – ייחשב כמי שהתקשר בעסקה באמצעות המתווך, ככל שהדין מאפשר.
+
+### 7. הסבר ואישור
+[ ] **המתווך הסביר לי בשפה פשוטה את מהות העסקה ואת הפרטים בטופס זה, לפני שחתמתי.***
+[ ] קיבלתי עותק חתום של ההזמנה (נשלח אוטומטית ל-{{לקוח.טלפון}} / {{לקוח.מייל}}).*
+[ ] אני מסכים/ה לחתימה אלקטרונית על מסמך זה ולקבלתו באמצעים אלקטרוניים.*
+
+| הלקוח | המתווך |
+|---|---|
+| [[חתימה]] | [[חתימה]] |
+| {{לקוח.שם}} · {{תאריך}} | {{מתווך.שם}} · רישיון {{מתווך.רישיון}} |
+
+---
+*עמוד אחרון אוטומטי: תעודת חתימה – זמן, טלפון שאומת ב-SMS, כתובת IP, מכשיר, מיקום (בהסכמה), קוד אימות הקובץ.*

diff --git a/docs/broker-app/templates/02-exclusivity.md b/docs/broker-app/templates/02-exclusivity.md
@@ -1,0 +1,46 @@
+# הסכם בלעדיות לשיווק נכס
+**מסמך נפרד להזמנת שירותי התיווך – לפי סעיף 9 לחוק המתווכים במקרקעין ותקנות המתווכים במקרקעין (פעולות שיווק), התשס״ה-2004**
+
+> טיוטה לעבודה – לבדיקת עו״ד לפני שימוש.
+
+**תאריך:** {{תאריך}}*   **מצורף להזמנת שירותי תיווך מס׳:** {{הזמנה.מספר}}*
+
+### 1. הצדדים
+**המתווך:** {{מתווך.שם}}, רישיון {{מתווך.רישיון}}*, {{משרד.שם}}
+**בעל/ת הנכס:** {{לקוח.שם}}, ת״ז {{לקוח.תז}}* (ובעלים נוספים: {{בעלים_נוספים}})
+
+### 2. הנכס*
+{{נכס.כתובת}}, גוש {{נכס.גוש}} חלקה {{נכס.חלקה}} תת-חלקה {{נכס.תת}} · {{נכס.תיאור}}
+מחיר מבוקש: ₪{{נכס.מחיר}} · סוג העסקה: [ ] מכירה [ ] השכרה
+
+### 3. תקופת הבלעדיות*
+מיום **{{בלעדיות.מ}}** עד יום **{{בלעדיות.עד}}** (סה״כ {{בלעדיות.ימים}} ימים).
+> **במקרה של דירה – התקופה לא תעלה על 6 חודשים** מיום ההזמנה. *(האפליקציה חוסמת תאריך מעבר לכך בדירה.)*
+
+### 4. פעולות שיווק שהמתווך מתחייב לבצע*
+המתווך יבצע **לפחות שתיים** מהפעולות שלהלן (לסמן):
+[ ] 1. **שילוט** – שלט על הנכס או בסמוך לו, ו/או על לוח מודעות ציבורי / במרכז קהילתי.
+[ ] 2. **פרסום ללקוחות** – פרסום בקרב קהל לקוחות מתוך מאגר המתווך, או מודעה באתר אינטרנט: {{אתרים}}
+[ ] 3. **פרסום בעיתון יומי** נפוץ אחד לפחות.
+[ ] 4. **פרסום בעיתון מקומי** או בעיתון המיועד לקהל יעד מסוים.
+[ ] 5. **הזמנת רוכשים / שוכרים** פוטנציאליים לביקור בנכס (כולל "בית פתוח").
+[ ] 6. **הזמנת חמישה מתווכים אחרים לפחות** הפועלים ביישוב לשתף פעולה בשיווק.
+[ ] פעולה נוספת שהוסכמה: {{פעולה_נוספת}} *(בנוסף לפעולות לעיל)*
+
+**חשוב לבעל הנכס:** אם המתווך לא ביצע את פעולות השיווק עד תום **שליש** מתקופת הבלעדיות – הבלעדיות מסתיימת באותו מועד.
+
+### 5. דמי תיווך בבלעדיות
+5.1 בתקופת הבלעדיות, אם ייחתם הסכם מחייב למכירה/השכרה של הנכס – בין אם באמצעות המתווך, בעל הנכס או מתווך אחר – ישלם בעל הנכס למתווך דמי תיווך של **{{עמלה.אחוז}}%** / **₪{{עמלה.סכום}}**, [ ] כולל [ ] בתוספת מע״מ.
+5.2 בעל הנכס יפנה למתווך כל פונה שיתעניין בנכס בתקופת הבלעדיות.
+5.3 עסקה שתיחתם אחרי תום הבלעדיות עם מי שהמתווך הציג לו את הנכס בתקופתה – תזכה את המתווך בדמי תיווך לפי הזמנת שירותי התיווך, אם המתווך היה הגורם היעיל.
+
+### 6. דיווח
+המתווך יעדכן את בעל הנכס על פעולות השיווק ועל פניות לפחות פעם ב-{{תדירות_דיווח}} (ברירת מחדל: שבועיים). *(באפליקציה: דוח אוטומטי ב-WhatsApp.)*
+
+### 7. אישור
+[ ] **קראתי, המתווך הסביר לי את משמעות הבלעדיות ותקופתה, ואני מאשר/ת אותן בחתימתי על מסמך נפרד זה.***
+[ ] קיבלתי עותק חתום.*
+
+| בעל/ת הנכס | בעלים נוסף/ת | המתווך |
+|---|---|---|
+| [[חתימה]] | [[חתימה]] | [[חתימה]] |

diff --git a/docs/broker-app/02-product-spec.md b/docs/broker-app/02-product-spec.md
@@ -44,8 +44,20 @@
 - דף חתימה ללקוח (Web, ללא התקנה): קריאה, מילוי ת״ז, חתימה ביד, אישור OTP
 - Audit Trail: חותמת זמן, IP, מכשיר, מיקום (בהסכמה), Hash ל-PDF + תעודת חתימה בעמוד האחרון
 - סטטוסים בזמן אמת (נשלח / נצפה / נחתם) + תזכורות אוטומטיות
-- ארכיון מסמכים עם חיפוש, שליחת עותק חתום אוטומטית ללקוח
+- ארכיון מסמכים עם חיפוש
+- **העתק חתום ושמירת PDF** (ראו סעיף 5א)
+- **ספריית תבניות מוכנות:** הזמנת שירותי תיווך, הסכם בלעדיות, גילוי נאות ומידע על הנכס, שאלון מוכר נכס (ראו `templates/`)
 - כרטיס לקוח וכרטיס נכס בסיסיים (נוצרים אוטומטית מהמסמך)
+
+### 5א. העתק חתום ושמירת PDF (חלק מה-MVP)
+תקנות האתיקה מחייבות למסור ללקוח עותק ולשמור מסמכים, ולכן זה פיצ'ר ליבה ולא תוספת.
+- **שליחת העתק אוטומטית:** מיד כשהחותם האחרון חותם, PDF חתום נשלח לכל החותמים (WhatsApp / SMS / מייל, לפי מה שיש בכרטיס) ולמתווך. אפשר לכבות או לשנות בהגדרות.
+- **שליחת העתק ידנית:** מכל מסמך חתום – בחירת נמענים (חותמים, בעלים נוסף, עו״ד, מנהל המשרד, כל איש קשר) וערוץ (WhatsApp, SMS, מייל, קישור להעתקה). כל שליחה נרשמת ביומן הפעולות.
+- **שמירת PDF:** הורדה למכשיר (קבצים / גלריה), שיתוף דרך תפריט השיתוף של הטלפון, וגיבוי אוטומטי אופציונלי ל-Google Drive / OneDrive / Dropbox בתיקייה לפי נכס או לקוח.
+- **מבנה הקובץ:** שם קובץ קבוע `{סוג מסמך}_{כתובת}_{שם לקוח}_{תאריך}.pdf`; העמוד האחרון הוא "תעודת חתימה" (זמנים, טלפון שאומת, IP, מכשיר, מיקום, קוד אימות של הקובץ).
+- **קישור מאובטח:** הלקוח מקבל קישור להורדה (בתוקף 30 יום, ניתן לחידוש) במקום קובץ גדול. אפשר להגדיר סיסמה = 4 ספרות אחרונות של ת״ז.
+- **אימות מסמך:** דף ציבורי שבו אפשר להעלות PDF ולבדוק שלא שונה מאז החתימה.
+- **שמירה בארכיון:** כל מסמך חתום נשמר לפחות 7 שנים (לאשר מול עו״ד את תקופת השמירה הנדרשת), ואי אפשר למחוק מסמך חתום – רק לסמן כמבוטל.
 
 ### V2 (שלב 2 – ניהול משרד) – 10 שבועות
 - לידים: קליטה ידנית / טופס / ייבוא אנשי קשר, תיוג, התאמת נכס-לקוח (Matching)
@@ -70,6 +82,7 @@
 ├── בית: סיכום היום, מסמכים ממתינים, סיורים, פעולות מהירות
 ├── לקוחות: רשימה + סינון → כרטיס לקוח (מסמכים, נכסים שהוצגו, עסקאות, היסטוריה)
 ├── ＋ החתמה (אשף): בחירת תבנית → פרטים → חותמים → תצוגה → שליחה / החתמה במקום
+│     └── מסמך חתום: סטטוס → שליחת העתק / שמירת PDF / אימות
 ├── נכסים: רשימה/מפה → כרטיס נכס (תמונות, בלעדיות + תוקף, סיורים, מתעניינים)
 └── עוד: מסמכים · יומן · עסקאות · עמלות · צוות · תבניות · הגדרות
 דף לקוח (Web): פתיחה → קריאה → פרטים → חתימה → OTP → אישור + PDF

diff --git a/docs/broker-app/README.md b/docs/broker-app/README.md
@@ -2,6 +2,7 @@
 
 1. [פרומט למחקר שוק ומתחרים](01-research-prompt.md)
 2. [אפיון מוצר ותוכנית פיתוח](02-product-spec.md)
-3. [הדמיות מסכים](mockups/) – `00-overview.png` מציג את כל 9 המסכים, `mockups.html` הוא המקור
+3. [תבניות מסמכים](templates/) – הזמנת שירותי תיווך, בלעדיות, גילוי נאות, שאלון מוכר
+4. [הדמיות מסכים](mockups/) – `00-overview.png` מציג את כל 10 המסכים, `mockups.html` הוא המקור
 
 ![סקירת מסכים](mockups/00-overview.png)
